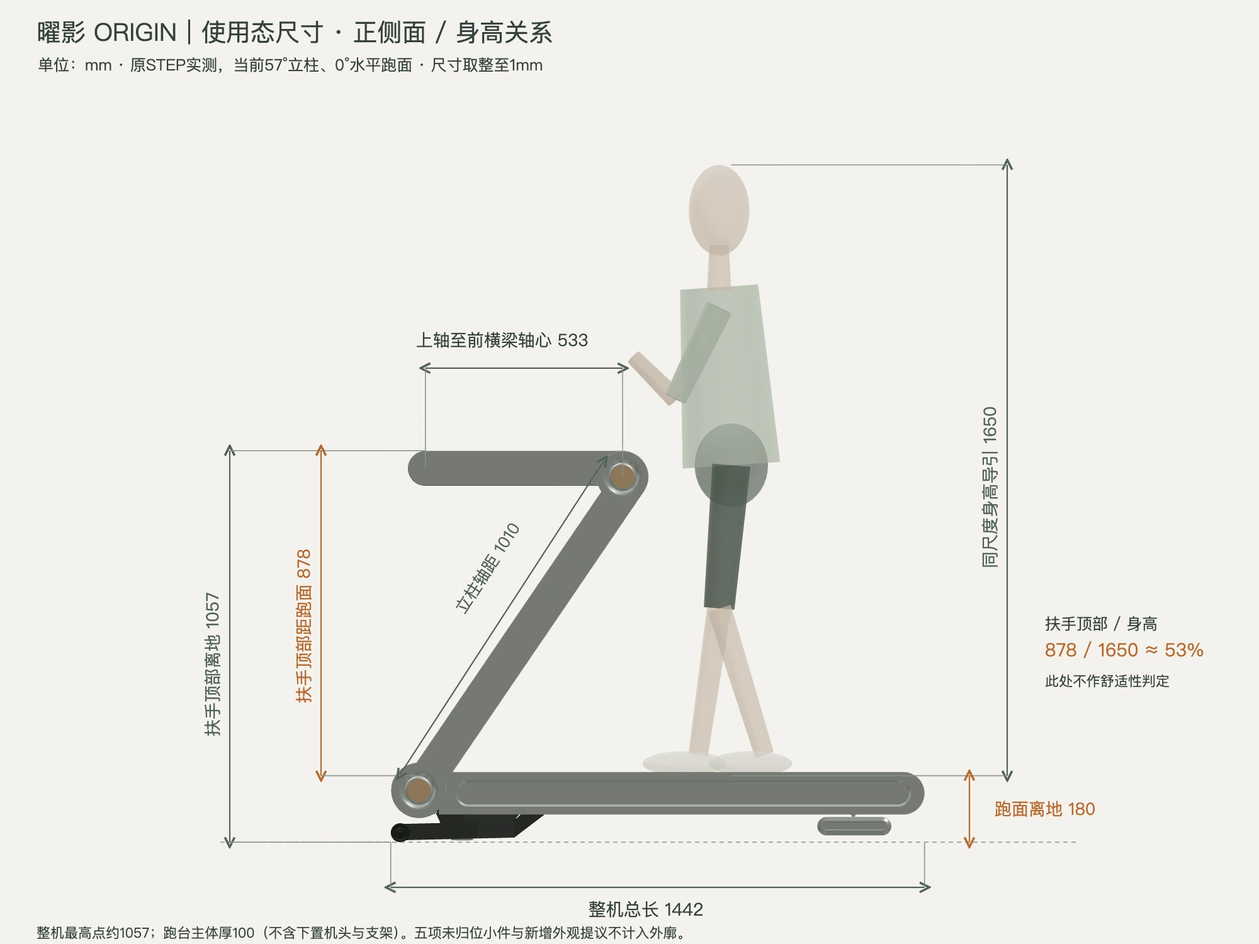
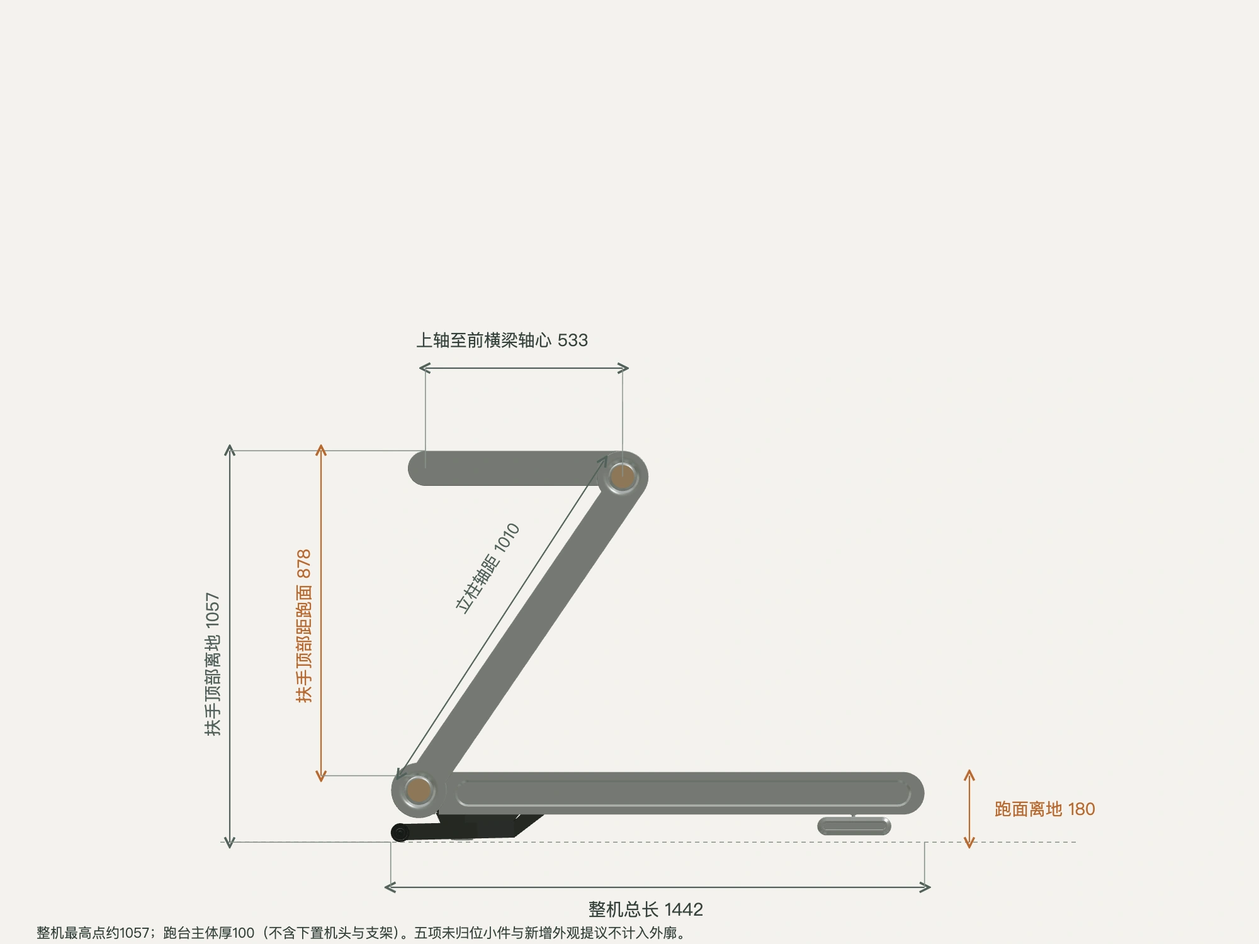
Simplify Origin review copy, remove scale reference and dimension person, expand finishing details

diff --git a/iterations/origin/index.html b/iterations/origin/index.html
@@ -5,7 +5,7 @@
 <header class="masthead"><a class="brand" href="#top">LIJIUJIA <span>立久佳</span></a><span class="edition">DESIGN REVIEW / 2026.11.15</span></header>
 <main id="top"><section class="intro"><div><p class="eyebrow">曜影 / DESIGN REVIEW</p><h1>曜影</h1><p class="lead">整机、使用与收纳姿态、离合片及前方出线。</p></div><div class="review-label"><span class="dot"></span>独立评审稿<span>整机 / 动作 / 选项</span></div></section>
 <div class="review-navigation"><nav class="single-navigation" aria-label="本方案目录"><a href="#whole">整机</a><a href="#incline-15">15°抬升态</a><a href="#motion">模型与动作</a><a href="#finishing">局部与选项</a><a href="#panels">面板提案</a><a href="#origin-indirect-edge-current">侧面光效</a><a href="#incline-15">15°抬升</a><a href="#origin-dimensions-angle-current">尺寸与视角</a></nav><button class="model-launch" id="open-model"><strong>进入曜影3D模型</strong><span>本方案独立模型 →</span></button></div>
-<section id="whole" aria-label="整机与家居效果图"><div class="section-heading"><span class="section-number">01</span><h2>整机形态</h2><p>点开图片，可放大查看</p></div><article class="product" data-product="origin"><section id="origin-indirect-edge-current" style="margin:24px 0;padding:24px;background:#e9e7e1"><h3>侧饰件整圈漫反射 · 后横梁保持银色不发光</h3><p>当前近景以用户指定最正确的R2原图为准，金属、轴心与橙色光晕保持原样。整机仅去掉后横梁多加的灯光：整圈指侧面长饰件的轮廓，不延伸到后横梁。当前为外观稿，未改入STEP。</p><figure style="margin:24px auto;max-width:1120px"><button class="zoom" data-image="https://calfnai.github.io/lijiujia-z7pro-model/iterations/origin-rear-unlit-20261115/whole.webp" data-title="曜影 · 整机 · 侧饰件漫反射，后横梁不发光" aria-label="放大整机 · 侧饰件漫反射，后横梁不发光" style="display:block;width:100%;padding:0;border:0;background:transparent"><img src="https://calfnai.github.io/lijiujia-z7pro-model/iterations/origin-rear-unlit-20261115/whole.webp" alt="曜影 · 整机 · 侧饰件漫反射，后横梁不发光" loading="lazy" width="1448" height="1086" style="width:100%;height:auto;aspect-ratio:auto;object-fit:contain"></button><figcaption>整机 · 侧饰件漫反射，后横梁不发光 · 内置imagegen生成，待评审。</figcaption></figure><figure style="margin:24px auto;max-width:1120px"><button class="zoom" data-image="https://calfnai.github.io/lijiujia-z7pro-model/iterations/origin-indirect-edge-r2-20261115/edge-detail.webp" data-title="曜影 · 近景 · 用户指定R2基准，原图保持" aria-label="放大近景 · 用户指定R2基准，原图保持" style="display:block;width:100%;padding:0;border:0;background:transparent"><img src="https://calfnai.github.io/lijiujia-z7pro-model/iterations/origin-indirect-edge-r2-20261115/edge-detail.webp" alt="曜影 · 近景 · 用户指定R2基准，原图保持" loading="lazy" width="2087" height="754" style="width:100%;height:auto;aspect-ratio:auto;object-fit:contain"></button><figcaption>近景 · 用户指定R2基准，原图保持 · 内置imagegen生成，待评审。</figcaption></figure></section><section id="origin-use-lit-current" style="margin:24px 0;padding:24px;background:#e9e7e1"><h3>曜影 · 侧面发光版使用与身高适配</h3><p>按用户新提供的光影基准重做：银色拉丝与小橙色金属轴心，侧面长胶囊饰件柔和橙光；尾端横梁保持银色、不发光。成人场景比例重新核对；儿童图沿用已验收版本。<a href="https://calfnai.github.io/lijiujia-z7pro-model/iterations/origin-use-lit-r3-20261116/whole-reference.webp" target="_blank" rel="noopener">查看本轮光影基准 ↗</a></p><figure id="origin-adult-scene-r6" style="max-width:1120px;margin:24px auto"><button class="zoom" data-image="https://calfnai.github.io/lijiujia-z7pro-model/iterations/origin-adult-scale-r6-20261116/adult-side.webp" data-title="曜影 · 成人正侧面 · 比例修正版" style="display:block;width:100%;padding:0;border:0;background:transparent"><img src="https://calfnai.github.io/lijiujia-z7pro-model/iterations/origin-adult-scale-r6-20261116/adult-side.webp" alt="曜影成人正侧面场景，165cm外轮廓比例修正版" width="1448" height="1086" style="width:100%;height:auto;object-fit:contain"></button><figcaption>成人正侧面 · 165cm比例修正版，待用户评审。按成图整机长度、脚底与头顶进行近似像素核对；精确尺寸以下方原STEP比例图为准。此处165cm为含鞋与头发的图像外轮廓高度。</figcaption></figure><figure id="origin-adult-scale-current" style="max-width:1300px;margin:24px auto"><button class="zoom" data-image="https://calfnai.github.io/lijiujia-z7pro-model/iterations/origin-adult-scale-r6-20261116/scale-reference.webp" data-title="曜影 · 成人身高比例核对" style="display:block;width:100%;padding:0;border:0;background:transparent"><img src="https://calfnai.github.io/lijiujia-z7pro-model/iterations/origin-adult-scale-r6-20261116/scale-reference.webp" alt="原STEP正侧投影与160、165、180cm同尺度身高参照" width="2000" height="1500" style="width:100%;height:auto;object-fit:contain"></button><figcaption>成人比例核对：原女性场景已撤下；此图为原STEP与165cm示意轮廓的同尺度正侧投影，另列160／180cm标尺。上方正侧场景已完成近似像素比例核对，仍待用户评审。</figcaption></figure><figure style="max-width:1120px;margin:24px auto"><button class="zoom" data-image="https://calfnai.github.io/lijiujia-z7pro-model/iterations/origin-use-lit-r3-20261116/child-use.webp" data-title="曜影 · 120cm身高适配概念 · 侧面发光，尾端不发光" aria-label="放大120cm身高适配概念" style="display:block;width:100%;padding:0;border:0;background:transparent"><img src="https://calfnai.github.io/lijiujia-z7pro-model/iterations/origin-use-lit-r3-20261116/child-use.webp" alt="曜影 · 120cm身高适配概念 · 侧面发光、尾端银色不发光" loading="lazy" width="1448" height="1086" style="width:100%;height:auto;aspect-ratio:auto;object-fit:contain"></button><figcaption>120cm身高适配概念。保留原约48.5°静态适配姿态，横梁顶部距跑面约788mm；儿童使用安全尚未验证。 用户验收通过 · 2026-11-16。</figcaption></figure></section><section id="origin-dimensions-angle-current" style="margin:28px 0;padding:24px;background:#f1efe9"><h3>曜影 · 使用态尺寸与视角对照</h3><p>原STEP当前水平使用态实测，单位mm。跑面离地约180，扶手顶部离地约1057，<strong>扶手顶部距跑面约878</strong>。整机外廓约1442 × 726 × 1057，有效跑面1300 × 435。57°指立柱角度；独立尺寸图用于判断实际高度，原女性效果图比例被否决，已撤下；尺寸图只说明原STEP当前姿态，不证明生成图比例正确。</p><figure style="max-width:1300px;margin:24px auto"><button class="zoom" data-image="https://calfnai.github.io/lijiujia-z7pro-model/iterations/origin-dimensions-angle-20261116/dimensions-side.webp" data-title="曜影 · 正侧面 · 165cm身高导引与主要高度" aria-label="放大正侧面 · 165cm身高导引与主要高度" style="display:block;width:100%;padding:0;border:0;background:transparent"><img src="https://calfnai.github.io/lijiujia-z7pro-model/iterations/origin-dimensions-angle-20261116/dimensions-side.webp" alt="正侧面 · 165cm身高导引与主要高度" loading="lazy" width="2000" height="1500" style="width:100%;height:auto;aspect-ratio:auto;object-fit:contain"></button><figcaption>正侧面 · 165cm身高导引与主要高度。原生几何尺寸标注，非生产放行图。</figcaption></figure><figure style="max-width:1300px;margin:24px auto"><button class="zoom" data-image="https://calfnai.github.io/lijiujia-z7pro-model/iterations/origin-dimensions-angle-20261116/dimensions-plan.webp" data-title="曜影 · 俯视 · 整机、跑面与扶手长宽" aria-label="放大俯视 · 整机、跑面与扶手长宽" style="display:block;width:100%;padding:0;border:0;background:transparent"><img src="https://calfnai.github.io/lijiujia-z7pro-model/iterations/origin-dimensions-angle-20261116/dimensions-plan.webp" alt="俯视 · 整机、跑面与扶手长宽" loading="lazy" width="2000" height="1200" style="width:100%;height:auto;aspect-ratio:auto;object-fit:contain"></button><figcaption>俯视 · 整机、跑面与扶手长宽。原生几何尺寸标注，非生产放行图。</figcaption></figure></section><details id="origin-earlier-visuals" style="margin: 24px 0px; padding: 18px; border: 1px solid rgb(204, 204, 204);"><summary>此前整机与场景图 · 已退出当前外观评审；原STEP与尺寸留作参考</summary><div class="product-heading"><div><span class="eyebrow">02 / ORIGIN</span><h2>曜影<span>新全域STEP基准 · 按8张补图补齐整机姿态</span></h2></div><span class="source-tag">AI外观提案 · STEP结构参考保留</span></div><section id="origin-child-height-check" style="padding:24px;margin:24px 0;border:1px solid #d4d8cc;background:#f0f1e9"><h3>120cm儿童适配核对 · 尚未满足使用态放行条件</h3><p>实测可以调低，不等于儿童用得舒服或用途合规。当前57°姿态：横梁顶部距跑面878mm、圆弧中心830mm；上下轴距1010mm。侧臂中心距680mm、净距640mm，有效跑面1300×435mm。</p><figure><button class="zoom" data-image="https://calfnai.github.io/lijiujia-z7pro-model/iterations/origin-child-fit-20261115/height-check.webp" data-title="曜影120cm尺寸核对 · 未开放儿童运行态" aria-label="放大120cm适配尺寸核对"><img src="https://calfnai.github.io/lijiujia-z7pro-model/iterations/origin-child-fit-20261115/height-check.webp" alt="曜影实际尺寸与1200mm身高尺对比，不代表儿童适用" loading="lazy" width="1800" height="1150"><span class="zoom-icon">↗</span></button></figure><p>中心高度700/740/780mm对应立柱约45.2°/48.5°/52.1°，仅上端两件未检出实体相交；这些是试算目标，未认定为儿童舒适范围。39°旧候选仍有约1288mm³相交。指定握持、全机构、锁止、急停与儿童尺寸适配尚未验证。</p><p>按中国大陆普通家用用途核查：现行GB 17498.1-2008不覆盖儿童专用健身器材；范围排除并非法律一概禁止，但不能以成人设备的标准符合性证明儿童用途。2026版国标于2027-10-01实施。仅凭120cm身高无法确定肘高、握持和舒适可达；年龄与步行/跑步用途尚未明确。因此本轮保留成人基准和九图，不发布儿童运行3D档位。</p></section><section id="origin-native-source-20261115"><p><a href="https://calfnai.github.io/lijiujia-z7pro-model/iterations/origin/model.html?rev=origin-remove-person-20261116" target="_blank" rel="noopener">打开曜影全域版3D：使用、折平、竖放与透明装配 ↗</a></p><div class="gallery"><figure><button class="zoom" data-image="https://calfnai.github.io/lijiujia-z7pro-model/iterations/origin-native-20261115/origin-source-45.webp" data-title="曜影 · 使用态 · 机头侧45°" aria-label="放大：使用态 · 机头侧45°"><img src="https://calfnai.github.io/lijiujia-z7pro-model/iterations/origin-native-20261115/origin-source-45.webp" alt="曜影 · 使用态 · 机头侧45°" loading="lazy" width="1600" height="1200"><span class="zoom-icon">↗</span></button><figcaption><strong>使用态 · 机头侧45°</strong><span>前横梁、下置机头及原轮组保留。</span></figcaption></figure><figure><button class="zoom" data-image="https://calfnai.github.io/lijiujia-z7pro-model/iterations/origin-native-20261115/origin-source-right.webp" data-title="曜影 · 使用态 · 操作台侧45°" aria-label="放大：使用态 · 操作台侧45°"><img src="https://calfnai.github.io/lijiujia-z7pro-model/iterations/origin-native-20261115/origin-source-right.webp" alt="曜影 · 使用态 · 操作台侧45°" loading="lazy" width="1600" height="1200"><span class="zoom-icon">↗</span></button><figcaption><strong>使用态 · 操作台侧45°</strong><span>黑屏、红色按键按原几何分区。</span></figcaption></figure><figure><button class="zoom" data-image="https://calfnai.github.io/lijiujia-z7pro-model/iterations/origin-native-20261115/origin-source-person.webp" data-title="曜影 · 使用态 · 175cm比例人形" aria-label="放大：使用态 · 175cm比例人形"><img src="https://calfnai.github.io/lijiujia-z7pro-model/iterations/origin-native-20261115/origin-source-person.webp" alt="曜影 · 使用态 · 175cm比例人形" loading="lazy" width="1600" height="1200"><span class="zoom-icon">↗</span></button><figcaption><strong>使用态 · 175cm比例人形</strong><span>人物只用于尺度观察。</span></figcaption></figure><figure><button class="zoom" data-image="https://calfnai.github.io/lijiujia-z7pro-model/iterations/origin-native-20261115/origin-source-side.webp" data-title="曜影 · 使用态 · 正侧面" aria-label="放大：使用态 · 正侧面"><img src="https://calfnai.github.io/lijiujia-z7pro-model/iterations/origin-native-20261115/origin-source-side.webp" alt="曜影 · 使用态 · 正侧面" loading="lazy" width="1600" height="1200"><span class="zoom-icon">↗</span></button><figcaption><strong>使用态 · 正侧面</strong><span>立柱约57°、扶手水平，按补图对齐。</span></figcaption></figure><figure><button class="zoom" data-image="https://calfnai.github.io/lijiujia-z7pro-model/iterations/origin-native-20261115/origin-bottom.webp" data-title="曜影 · 原装配 · 机底" aria-label="放大：原装配 · 机底"><img src="https://calfnai.github.io/lijiujia-z7pro-model/iterations/origin-native-20261115/origin-bottom.webp" alt="曜影 · 原装配 · 机底" loading="lazy" width="1600" height="1200"><span class="zoom-icon">↗</span></button><figcaption><strong>原装配 · 机底</strong><span>保留原支架、驱动与下置机头，未用旧低罩替换源件。</span></figcaption></figure><figure><button class="zoom" data-image="https://calfnai.github.io/lijiujia-z7pro-model/iterations/origin-native-20261115/origin-fold.webp" data-title="曜影 · 折平 · 斜上方" aria-label="放大：折平 · 斜上方"><img src="https://calfnai.github.io/lijiujia-z7pro-model/iterations/origin-native-20261115/origin-fold.webp" alt="曜影 · 折平 · 斜上方" loading="lazy" width="1600" height="1200"><span class="zoom-icon">↗</span></button><figcaption><strong>折平 · 斜上方</strong><span>按补图对齐终态；全程扫掠与锁止仍待核对。</span></figcaption></figure><figure><button class="zoom" data-image="https://calfnai.github.io/lijiujia-z7pro-model/iterations/origin-native-20261115/origin-fold-side.webp" data-title="曜影 · 折平 · 正侧面" aria-label="放大：折平 · 正侧面"><img src="https://calfnai.github.io/lijiujia-z7pro-model/iterations/origin-native-20261115/origin-fold-side.webp" alt="曜影 · 折平 · 正侧面" loading="lazy" width="1600" height="1200"><span class="zoom-icon">↗</span></button><figcaption><strong>折平 · 正侧面</strong><span>原上端与下端几何保留，未压扁或缩小扶手。</span></figcaption></figure><figure><button class="zoom" data-image="https://calfnai.github.io/lijiujia-z7pro-model/iterations/origin-native-20261115/origin-stand.webp?rev=upright-90-20261115" data-title="曜影 · 竖放 · 机底" aria-label="放大：竖放 · 机底"><img src="https://calfnai.github.io/lijiujia-z7pro-model/iterations/origin-native-20261115/origin-stand.webp?rev=upright-90-20261115" alt="曜影 · 竖放 · 机底" loading="lazy" width="1600" height="1200"><span class="zoom-icon">↗</span></button><figcaption><strong>竖放 · 机底</strong><span>机头向下、机底朝外，按用户补图方向摆放。</span></figcaption></figure><figure><button class="zoom" data-image="https://calfnai.github.io/lijiujia-z7pro-model/iterations/origin-native-20261115/origin-stand-side.webp?rev=upright-90-20261115" data-title="曜影 · 竖放 · 正侧面" aria-label="放大：竖放 · 正侧面"><img src="https://calfnai.github.io/lijiujia-z7pro-model/iterations/origin-native-20261115/origin-stand-side.webp?rev=upright-90-20261115" alt="曜影 · 竖放 · 正侧面" loading="lazy" width="1600" height="1200"><span class="zoom-icon">↗</span></button><figcaption><strong>竖放 · 正侧面</strong><span>原轮组、机头与脚垫保留；最终支撑与稳定性未验证。</span></figcaption></figure></div><p>105项按姿态展示，5项未归位小件仍保留在“源保存态”。立柱使用/折平姿态按补图估读。已开放0–15°跑台倾角和现有双轴折叠过程预览；未验证左右解锁、锁止、线束与连续扫掠。15°抬升时下半部总成共同展开、轮组接地；驱动连接与竖放稳定性仍待核对。</p><p>既有120°开口的单轴出线、机底外观及离合片入口保留在下方；本次新装配尚未完整合入这些提议。</p></section><section id="lifestyle-scene-origin"><h3>旧未发光适配图已退出当前展示</h3><p>原文件保留历史，现采用用户指定光影基准重做的两张图。<a href="#origin-use-lit-current">查看当前成人与120cm适配图 ↑</a></p></section></details></article></section>
+<section id="whole" aria-label="整机与家居效果图"><div class="section-heading"><span class="section-number">01</span><h2>整机形态</h2><p>点开图片，可放大查看</p></div><article class="product" data-product="origin"><section id="origin-indirect-edge-current" style="margin:24px 0;padding:24px;background:#e9e7e1"><h3>侧饰件整圈漫反射 · 后横梁保持银色不发光</h3><p>当前近景以用户指定最正确的R2原图为准，金属、轴心与橙色光晕保持原样。整机仅去掉后横梁多加的灯光：整圈指侧面长饰件的轮廓，不延伸到后横梁。当前为外观稿，未改入STEP。</p><figure style="margin:24px auto;max-width:1120px"><button class="zoom" data-image="https://calfnai.github.io/lijiujia-z7pro-model/iterations/origin-rear-unlit-20261115/whole.webp" data-title="曜影 · 整机 · 侧饰件漫反射，后横梁不发光" aria-label="放大整机 · 侧饰件漫反射，后横梁不发光" style="display:block;width:100%;padding:0;border:0;background:transparent"><img src="https://calfnai.github.io/lijiujia-z7pro-model/iterations/origin-rear-unlit-20261115/whole.webp" alt="曜影 · 整机 · 侧饰件漫反射，后横梁不发光" loading="lazy" width="1448" height="1086" style="width:100%;height:auto;aspect-ratio:auto;object-fit:contain"></button><figcaption>整机 · 侧饰件漫反射，后横梁不发光 · 内置imagegen生成，待评审。</figcaption></figure><figure style="margin:24px auto;max-width:1120px"><button class="zoom" data-image="https://calfnai.github.io/lijiujia-z7pro-model/iterations/origin-indirect-edge-r2-20261115/edge-detail.webp" data-title="曜影 · 近景 · 用户指定R2基准，原图保持" aria-label="放大近景 · 用户指定R2基准，原图保持" style="display:block;width:100%;padding:0;border:0;background:transparent"><img src="https://calfnai.github.io/lijiujia-z7pro-model/iterations/origin-indirect-edge-r2-20261115/edge-detail.webp" alt="曜影 · 近景 · 用户指定R2基准，原图保持" loading="lazy" width="2087" height="754" style="width:100%;height:auto;aspect-ratio:auto;object-fit:contain"></button><figcaption>近景 · 用户指定R2基准，原图保持 · 内置imagegen生成，待评审。</figcaption></figure></section><section id="origin-use-lit-current" style="margin:24px 0;padding:24px;background:#e9e7e1"><h3>曜影 · 侧面发光版使用与身高适配</h3><figure id="origin-adult-scene-r6" style="max-width:1120px;margin:24px auto"><button class="zoom" data-image="https://calfnai.github.io/lijiujia-z7pro-model/iterations/origin-adult-scale-r6-20261116/adult-side.webp" data-title="曜影 · 成人正侧面 · 比例修正版" style="display:block;width:100%;padding:0;border:0;background:transparent"><img src="https://calfnai.github.io/lijiujia-z7pro-model/iterations/origin-adult-scale-r6-20261116/adult-side.webp" alt="曜影成人正侧面场景，165cm外轮廓比例修正版" width="1448" height="1086" style="width:100%;height:auto;object-fit:contain"></button></figure><figure style="max-width:1120px;margin:24px auto"><button class="zoom" data-image="https://calfnai.github.io/lijiujia-z7pro-model/iterations/origin-page-edit-20261116/child-use.webp" data-title="曜影 · 120cm身高适配概念 · 侧面发光，尾端不发光" aria-label="放大120cm身高适配概念" style="display:block;width:100%;padding:0;border:0;background:transparent"><img src="https://calfnai.github.io/lijiujia-z7pro-model/iterations/origin-page-edit-20261116/child-use.webp" alt="曜影 · 120cm身高适配概念 · 侧面发光、尾端银色不发光" loading="lazy" width="1448" height="1086" style="width:100%;height:auto;aspect-ratio:auto;object-fit:contain"></button><figcaption>120cm身高适配概念。保留原约48.5°静态适配姿态，横梁顶部距跑面约788mm；儿童使用安全尚未验证。 用户验收通过 · 2026-11-16。</figcaption></figure></section><section id="origin-dimensions-angle-current" style="margin:28px 0;padding:24px;background:#f1efe9"><h3>曜影 · 使用态尺寸与视角对照</h3><figure style="max-width:1300px;margin:24px auto"><button class="zoom" data-image="https://calfnai.github.io/lijiujia-z7pro-model/iterations/origin-dimensions-angle-20261116/dimensions-side.webp?rev=origin-page-edit-20261116" data-title="曜影 · 正侧面 · 原生几何尺寸标注" aria-label="放大正侧面 · 原生几何尺寸标注" style="display:block;width:100%;padding:0;border:0;background:transparent"><img src="https://calfnai.github.io/lijiujia-z7pro-model/iterations/origin-dimensions-angle-20261116/dimensions-side.webp?rev=origin-page-edit-20261116" alt="正侧面 · 原生几何尺寸标注" loading="lazy" width="2000" height="1500" style="width:100%;height:auto;aspect-ratio:auto;object-fit:contain"></button><figcaption>正侧面 ·原生几何尺寸标注，非生产放行图。</figcaption></figure><figure style="max-width:1300px;margin:24px auto"><button class="zoom" data-image="https://calfnai.github.io/lijiujia-z7pro-model/iterations/origin-dimensions-angle-20261116/dimensions-plan.webp" data-title="曜影 · 俯视 · 整机、跑面与扶手长宽" aria-label="放大俯视 · 整机、跑面与扶手长宽" style="display:block;width:100%;padding:0;border:0;background:transparent"><img src="https://calfnai.github.io/lijiujia-z7pro-model/iterations/origin-dimensions-angle-20261116/dimensions-plan.webp" alt="俯视 · 整机、跑面与扶手长宽" loading="lazy" width="2000" height="1200" style="width:100%;height:auto;aspect-ratio:auto;object-fit:contain"></button><figcaption>俯视 · 整机、跑面与扶手长宽。原生几何尺寸标注，非生产放行图。</figcaption></figure></section><details id="origin-earlier-visuals" style="margin: 24px 0px; padding: 18px; border: 1px solid rgb(204, 204, 204);"><summary>此前整机与场景图 · 已退出当前外观评审；原STEP与尺寸留作参考</summary><div class="product-heading"><div><span class="eyebrow">02 / ORIGIN</span><h2>曜影<span>新全域STEP基准 · 按8张补图补齐整机姿态</span></h2></div><span class="source-tag">AI外观提案 · STEP结构参考保留</span></div><section id="origin-child-height-check" style="padding:24px;margin:24px 0;border:1px solid #d4d8cc;background:#f0f1e9"><h3>120cm儿童适配核对 · 尚未满足使用态放行条件</h3><p>实测可以调低，不等于儿童用得舒服或用途合规。当前57°姿态：横梁顶部距跑面878mm、圆弧中心830mm；上下轴距1010mm。侧臂中心距680mm、净距640mm，有效跑面1300×435mm。</p><figure><button class="zoom" data-image="https://calfnai.github.io/lijiujia-z7pro-model/iterations/origin-child-fit-20261115/height-check.webp" data-title="曜影120cm尺寸核对 · 未开放儿童运行态" aria-label="放大120cm适配尺寸核对"><img src="https://calfnai.github.io/lijiujia-z7pro-model/iterations/origin-child-fit-20261115/height-check.webp" alt="曜影实际尺寸与1200mm身高尺对比，不代表儿童适用" loading="lazy" width="1800" height="1150"><span class="zoom-icon">↗</span></button></figure><p>中心高度700/740/780mm对应立柱约45.2°/48.5°/52.1°，仅上端两件未检出实体相交；这些是试算目标，未认定为儿童舒适范围。39°旧候选仍有约1288mm³相交。指定握持、全机构、锁止、急停与儿童尺寸适配尚未验证。</p><p>按中国大陆普通家用用途核查：现行GB 17498.1-2008不覆盖儿童专用健身器材；范围排除并非法律一概禁止，但不能以成人设备的标准符合性证明儿童用途。2026版国标于2027-10-01实施。仅凭120cm身高无法确定肘高、握持和舒适可达；年龄与步行/跑步用途尚未明确。因此本轮保留成人基准和九图，不发布儿童运行3D档位。</p></section><section id="origin-native-source-20261115"><p><a href="https://calfnai.github.io/lijiujia-z7pro-model/iterations/origin/model.html?rev=origin-remove-person-20261116" target="_blank" rel="noopener">打开曜影全域版3D：使用、折平、竖放与透明装配 ↗</a></p><div class="gallery"><figure><button class="zoom" data-image="https://calfnai.github.io/lijiujia-z7pro-model/iterations/origin-native-20261115/origin-source-45.webp" data-title="曜影 · 使用态 · 机头侧45°" aria-label="放大：使用态 · 机头侧45°"><img src="https://calfnai.github.io/lijiujia-z7pro-model/iterations/origin-native-20261115/origin-source-45.webp" alt="曜影 · 使用态 · 机头侧45°" loading="lazy" width="1600" height="1200"><span class="zoom-icon">↗</span></button><figcaption><strong>使用态 · 机头侧45°</strong><span>前横梁、下置机头及原轮组保留。</span></figcaption></figure><figure><button class="zoom" data-image="https://calfnai.github.io/lijiujia-z7pro-model/iterations/origin-native-20261115/origin-source-right.webp" data-title="曜影 · 使用态 · 操作台侧45°" aria-label="放大：使用态 · 操作台侧45°"><img src="https://calfnai.github.io/lijiujia-z7pro-model/iterations/origin-native-20261115/origin-source-right.webp" alt="曜影 · 使用态 · 操作台侧45°" loading="lazy" width="1600" height="1200"><span class="zoom-icon">↗</span></button><figcaption><strong>使用态 · 操作台侧45°</strong><span>黑屏、红色按键按原几何分区。</span></figcaption></figure><figure><button class="zoom" data-image="https://calfnai.github.io/lijiujia-z7pro-model/iterations/origin-native-20261115/origin-source-person.webp" data-title="曜影 · 使用态 · 175cm比例人形" aria-label="放大：使用态 · 175cm比例人形"><img src="https://calfnai.github.io/lijiujia-z7pro-model/iterations/origin-native-20261115/origin-source-person.webp" alt="曜影 · 使用态 · 175cm比例人形" loading="lazy" width="1600" height="1200"><span class="zoom-icon">↗</span></button><figcaption><strong>使用态 · 175cm比例人形</strong><span>人物只用于尺度观察。</span></figcaption></figure><figure><button class="zoom" data-image="https://calfnai.github.io/lijiujia-z7pro-model/iterations/origin-native-20261115/origin-source-side.webp" data-title="曜影 · 使用态 · 正侧面" aria-label="放大：使用态 · 正侧面"><img src="https://calfnai.github.io/lijiujia-z7pro-model/iterations/origin-native-20261115/origin-source-side.webp" alt="曜影 · 使用态 · 正侧面" loading="lazy" width="1600" height="1200"><span class="zoom-icon">↗</span></button><figcaption><strong>使用态 · 正侧面</strong><span>立柱约57°、扶手水平，按补图对齐。</span></figcaption></figure><figure><button class="zoom" data-image="https://calfnai.github.io/lijiujia-z7pro-model/iterations/origin-native-20261115/origin-bottom.webp" data-title="曜影 · 原装配 · 机底" aria-label="放大：原装配 · 机底"><img src="https://calfnai.github.io/lijiujia-z7pro-model/iterations/origin-native-20261115/origin-bottom.webp" alt="曜影 · 原装配 · 机底" loading="lazy" width="1600" height="1200"><span class="zoom-icon">↗</span></button><figcaption><strong>原装配 · 机底</strong><span>保留原支架、驱动与下置机头，未用旧低罩替换源件。</span></figcaption></figure><figure><button class="zoom" data-image="https://calfnai.github.io/lijiujia-z7pro-model/iterations/origin-native-20261115/origin-fold.webp" data-title="曜影 · 折平 · 斜上方" aria-label="放大：折平 · 斜上方"><img src="https://calfnai.github.io/lijiujia-z7pro-model/iterations/origin-native-20261115/origin-fold.webp" alt="曜影 · 折平 · 斜上方" loading="lazy" width="1600" height="1200"><span class="zoom-icon">↗</span></button><figcaption><strong>折平 · 斜上方</strong><span>按补图对齐终态；全程扫掠与锁止仍待核对。</span></figcaption></figure><figure><button class="zoom" data-image="https://calfnai.github.io/lijiujia-z7pro-model/iterations/origin-native-20261115/origin-fold-side.webp" data-title="曜影 · 折平 · 正侧面" aria-label="放大：折平 · 正侧面"><img src="https://calfnai.github.io/lijiujia-z7pro-model/iterations/origin-native-20261115/origin-fold-side.webp" alt="曜影 · 折平 · 正侧面" loading="lazy" width="1600" height="1200"><span class="zoom-icon">↗</span></button><figcaption><strong>折平 · 正侧面</strong><span>原上端与下端几何保留，未压扁或缩小扶手。</span></figcaption></figure><figure><button class="zoom" data-image="https://calfnai.github.io/lijiujia-z7pro-model/iterations/origin-native-20261115/origin-stand.webp?rev=upright-90-20261115" data-title="曜影 · 竖放 · 机底" aria-label="放大：竖放 · 机底"><img src="https://calfnai.github.io/lijiujia-z7pro-model/iterations/origin-native-20261115/origin-stand.webp?rev=upright-90-20261115" alt="曜影 · 竖放 · 机底" loading="lazy" width="1600" height="1200"><span class="zoom-icon">↗</span></button><figcaption><strong>竖放 · 机底</strong><span>机头向下、机底朝外，按用户补图方向摆放。</span></figcaption></figure><figure><button class="zoom" data-image="https://calfnai.github.io/lijiujia-z7pro-model/iterations/origin-native-20261115/origin-stand-side.webp?rev=upright-90-20261115" data-title="曜影 · 竖放 · 正侧面" aria-label="放大：竖放 · 正侧面"><img src="https://calfnai.github.io/lijiujia-z7pro-model/iterations/origin-native-20261115/origin-stand-side.webp?rev=upright-90-20261115" alt="曜影 · 竖放 · 正侧面" loading="lazy" width="1600" height="1200"><span class="zoom-icon">↗</span></button><figcaption><strong>竖放 · 正侧面</strong><span>原轮组、机头与脚垫保留；最终支撑与稳定性未验证。</span></figcaption></figure></div><p>105项按姿态展示，5项未归位小件仍保留在“源保存态”。立柱使用/折平姿态按补图估读。已开放0–15°跑台倾角和现有双轴折叠过程预览；未验证左右解锁、锁止、线束与连续扫掠。15°抬升时下半部总成共同展开、轮组接地；驱动连接与竖放稳定性仍待核对。</p><p>既有120°开口的单轴出线、机底外观及离合片入口保留在下方；本次新装配尚未完整合入这些提议。</p></section><section id="lifestyle-scene-origin"><h3>旧未发光适配图已退出当前展示</h3><p>原文件保留历史，现采用用户指定光影基准重做的两张图。<a href="#origin-use-lit-current">查看当前成人与120cm适配图 ↑</a></p></section></details></article></section>
 <section id="incline-15"><div class="section-heading"><span class="section-number">15°</span><h2>工作面对地15.0° · 下半部总成整体展开</h2><p>正侧投影核对实际夹角，原下壳与轮架共同运动</p></div><p>工作面长1300mm，对应高差336.5mm、水平投影1255.7mm。四只轮子与后支撑接地；下框架、横向底壳和包覆件共同展开。本组为结构姿态评审，未完成连续扫掠、推杆限位及承载验证。</p><div class="gallery"><figure><button class="zoom" data-image="https://calfnai.github.io/lijiujia-z7pro-model/iterations/origin/incline-15-side.webp?rev=origin-lift-total-20261115" data-title="曜影 · 正侧面 · 工作面与水平地面15.0°" aria-label="放大正侧面 · 工作面与水平地面15.0°"><img src="https://calfnai.github.io/lijiujia-z7pro-model/iterations/origin/incline-15-side.webp?rev=origin-lift-total-20261115" alt="曜影 · 正侧面 · 工作面与水平地面15.0°" loading="lazy" width="1800" height="1200" style="aspect-ratio:auto"><span class="zoom-icon">↗</span></button><figcaption>正侧面 · 工作面与水平地面15.0° · 原STEP网格姿态，待评审。</figcaption></figure><figure><button class="zoom" data-image="https://calfnai.github.io/lijiujia-z7pro-model/iterations/origin/incline-15-left.webp?rev=origin-lift-total-20261115" data-title="曜影 · 前下方 · 完整下部总成共同展开" aria-label="放大前下方 · 完整下部总成共同展开"><img src="https://calfnai.github.io/lijiujia-z7pro-model/iterations/origin/incline-15-left.webp?rev=origin-lift-total-20261115" alt="曜影 · 前下方 · 完整下部总成共同展开" loading="lazy" width="1800" height="1200" style="aspect-ratio:auto"><span class="zoom-icon">↗</span></button><figcaption>前下方 · 完整下部总成共同展开 · 原STEP网格姿态，待评审。</figcaption></figure></div></section><section id="motion"><div class="section-heading"><span class="section-number">02</span><h2>模型与动作</h2><p>曜影</p></div><div class="motion-shell"><div class="motion-poster" id="motion-poster"><img id="motion-cover" src="https://calfnai.github.io/lijiujia-z7pro-model/iterations/origin-rear-unlit-20261115/whole.webp" alt="凌序模型演示预览" width="1600" height="1200" loading="lazy"><div><p>从静态，进入动作。</p><button id="start-model">启动模型演示 <span>↗</span></button><small>本轮外观提案作封面；进入后为原STEP结构参考，藏光尚未合入三维。</small></div></div><iframe id="model-frame" title="曜影独立模型" hidden=""></iframe><p id="model-error" hidden="" role="alert">模型暂未载入。<button id="retry-model">重试</button></p></div><p class="caption-note">模型用于外观与动作评审；工程核验状态以模型内说明为准。</p></section>
 <!-- FOLD-ACCESS-START --><!-- FOLD-ACCESS-END --><section id="finishing"><div class="section-heading"><span class="section-number">03</span><h2>点睛之笔</h2><p>整机与动作之后，再看细节</p></div><div class="finishing-content"><p class="caption-note">此前机构与外观图 · 仅作参考，未统一为本轮外观</p><div data-detail="origin"><div class="detail-heading"><h3>曜影 · 机构与包覆</h3><p>离合片、机底、原抬升架与前方摆动出线，延续同一整机方案。</p></div><a class="origin-clutch-entry" id="origin-clutch-3d" href="https://calfnai.github.io/lijiujia-z7pro-model/iterations/source-detail-20261112/origin-detail.html?rev=origin-easycord-scene-r2-20261115#joint" target="_blank" rel="noopener"><img src="https://calfnai.github.io/lijiujia-z7pro-model/iterations/source-detail-20261112/origin-r3-coupled.webp?rev=origin-cord-bottom-20261114" alt="曜影离合片3D操作预览" width="1480" height="980" loading="lazy"><span><strong>进入曜影离合片 3D · 按钮耦合／解耦 ↗</strong><span>旋转查看结构，按下按钮退开齿盘，拖动扶手角度，再松开查看接合；支持剖视与零件展开。</span><small>沿用既有 R3 模型 · 30齿／12°档距 · 演示行程与承载仍待工程核验</small></span></a><div id="origin-cord-bottom-current" class="details-grid"><figure class="detail-card"><button class="zoom" data-image="https://calfnai.github.io/lijiujia-z7pro-model/iterations/origin-cord-bottom-20261114/stand.webp?rev=origin-cord-bottom-20261114-cbc67bc7" data-title="竖放也值得看 · 连续机底曲面" aria-label="放大：竖放也值得看 · 连续机底曲面"><img src="https://calfnai.github.io/lijiujia-z7pro-model/iterations/origin-cord-bottom-20261114/stand.webp?rev=origin-cord-bottom-20261114-cbc67bc7" alt="竖放也值得看 · 连续机底曲面" width="1600" height="1200" loading="lazy"><span class="zoom-icon">↗</span></button><figcaption><strong>竖放也值得看 · 连续机底曲面</strong><span>银框内收、微拱主壳与圆润电机舱；待评审</span></figcaption></figure><figure class="detail-card"><button class="zoom" data-image="https://calfnai.github.io/lijiujia-z7pro-model/iterations/origin-cord-bottom-20261114/bottom.webp?rev=origin-cord-bottom-20261114-cbc67bc7" data-title="机底整体 · 曲面与一笔橙线" aria-label="放大：机底整体 · 曲面与一笔橙线"><img src="https://calfnai.github.io/lijiujia-z7pro-model/iterations/origin-cord-bottom-20261114/bottom.webp?rev=origin-cord-bottom-20261114-cbc67bc7" alt="机底整体 · 曲面与一笔橙线" width="1600" height="1200" loading="lazy"><span class="zoom-icon">↗</span></button><figcaption><strong>机底整体 · 曲面与一笔橙线</strong><span>保留原零件，以真实壳面包覆；不是替换原机构</span></figcaption></figure><figure class="detail-card"><button class="zoom" data-image="https://calfnai.github.io/lijiujia-z7pro-model/iterations/origin-cord-bottom-20261114/lift-bottom.webp?rev=origin-cord-bottom-20261114-cbc67bc7" data-title="抬升时 · 原架体与横桥展开" aria-label="放大：抬升时 · 原架体与横桥展开"><img src="https://calfnai.github.io/lijiujia-z7pro-model/iterations/origin-cord-bottom-20261114/lift-bottom.webp?rev=origin-cord-bottom-20261114-cbc67bc7" alt="抬升时 · 原架体与横桥展开" width="1600" height="1200" loading="lazy"><span class="zoom-icon">↗</span></button><figcaption>原抬升架结构参考 · 保留原部件，当前抬升目标角度统一为15°</figcaption></figure><figure class="detail-card"><button class="zoom" data-image="https://calfnai.github.io/lijiujia-z7pro-model/iterations/origin-cord-bottom-20261114/cord-up.webp?rev=origin-easycord-scene-r2-20261115" data-title="T-fal式出线 · 最高朝天" aria-label="放大：T-fal式出线 · 最高朝天"><img src="https://calfnai.github.io/lijiujia-z7pro-model/iterations/origin-cord-bottom-20261114/cord-up.webp?rev=origin-easycord-scene-r2-20261115" alt="T-fal式出线 · 最高朝天" width="1600" height="1200" loading="lazy"><span class="zoom-icon">↗</span></button><figcaption><strong>T-fal式出线 · 最高朝天</strong><span>按T-fal实物重做：一体短槽护套与连续连接筋；开口纵向120°</span></figcaption></figure><figure class="detail-card"><button class="zoom" data-image="https://calfnai.github.io/lijiujia-z7pro-model/iterations/origin-cord-bottom-20261114/cord-down.webp?rev=origin-easycord-scene-r2-20261115" data-title="T-fal式出线 · 最低向前斜下30°" aria-label="放大：T-fal式出线 · 最低向前斜下30°"><img src="https://calfnai.github.io/lijiujia-z7pro-model/iterations/origin-cord-bottom-20261114/cord-down.webp?rev=origin-easycord-scene-r2-20261115" alt="T-fal式出线 · 最低向前斜下30°" width="1600" height="1200" loading="lazy"><span class="zoom-icon">↗</span></button><figcaption><strong>T-fal式出线 · 最低向前斜下30°</strong><span>同一Z轴、同一平面；护套取消独立圆环，保持连续实体</span></figcaption></figure><figure class="detail-card"><button class="zoom" data-image="https://calfnai.github.io/lijiujia-z7pro-model/iterations/origin-cord-bottom-20261114/fold-side.webp?rev=origin-cord-bottom-20261114-cbc67bc7" data-title="折平侧面核对" aria-label="放大：折平侧面核对"><img src="https://calfnai.github.io/lijiujia-z7pro-model/iterations/origin-cord-bottom-20261114/fold-side.webp?rev=origin-cord-bottom-20261114-cbc67bc7" alt="折平侧面核对" width="1600" height="1200" loading="lazy"><span class="zoom-icon" aria-hidden="true">↗</span></button><figcaption><strong>折平侧面核对</strong><span>同一个模型 · 原123°端点仍待接合</span></figcaption></figure><figure class="detail-card"><button class="zoom" data-image="https://calfnai.github.io/lijiujia-z7pro-model/iterations/source-detail-20261112/origin-r3-coupled.webp?rev=origin-cord-bottom-20261114" data-title="① 松手复位 · 齿面接合" aria-label="放大：① 松手复位 · 齿面接合"><img src="https://calfnai.github.io/lijiujia-z7pro-model/iterations/source-detail-20261112/origin-r3-coupled.webp?rev=origin-cord-bottom-20261114" alt="① 松手复位 · 齿面接合" width="1600" height="1200" loading="lazy"><span class="zoom-icon" aria-hidden="true">↗</span></button><figcaption><strong>① 松手复位 · 齿面接合</strong><span>齿峰进入齿谷 · 可切换3D近看与展开剖面</span></figcaption></figure><figure class="detail-card"><button class="zoom" data-image="https://calfnai.github.io/lijiujia-z7pro-model/iterations/source-detail-20261112/origin-r3-decoupled.webp?rev=origin-cord-bottom-20261114" data-title="② 按下按钮 · 齿盘退开" aria-label="放大：② 按下按钮 · 齿盘退开"><img src="https://calfnai.github.io/lijiujia-z7pro-model/iterations/source-detail-20261112/origin-r3-decoupled.webp?rev=origin-cord-bottom-20261114" alt="② 按下按钮 · 齿盘退开" width="1600" height="1200" loading="lazy"><span class="zoom-icon" aria-hidden="true">↗</span></button><figcaption><strong>② 按下按钮 · 齿盘退开</strong><span>退开10 mm · 弹簧压缩，齿面分离；演示参数待核验</span></figcaption></figure><figure class="detail-card"><button class="zoom" data-image="https://calfnai.github.io/lijiujia-z7pro-model/iterations/source-detail-20261112/origin-r3-pending.webp" data-title="③ 未对齿 · 尚未接合" aria-label="放大：③ 未对齿 · 尚未接合"><img src="https://calfnai.github.io/lijiujia-z7pro-model/iterations/source-detail-20261112/origin-r3-pending.webp" alt="③ 未对齿 · 尚未接合" width="1600" height="1200" loading="lazy"><span class="zoom-icon" aria-hidden="true">↗</span></button><figcaption><strong>③ 未对齿 · 尚未接合</strong><span>松手后齿顶相抵 · 微调对齿后才接合</span></figcaption></figure></div><p class="small">2026.11.14 · 出线与机底已改入网页同一模型；下载STEP仍为删旧扳机的源装配。参考 T-fal Easycord实物。<br><a href="https://calfnai.github.io/lijiujia-z7pro-model/iterations/source-detail-20261112/origin-detail.html?rev=origin-easycord-scene-r2-20261115" target="_blank" rel="noopener">进入曜影既有R3细节操作 ↗</a> · <a href="https://calfnai.github.io/lijiujia-z7pro-model/iterations/source-detail-20261112/origin-without-legacy-trigger.step.zip" target="_blank" rel="noopener">下载删旧扳机后的STEP</a></p></div></div></section><section id="panels"><div class="section-heading"><span class="section-number">04</span><h2>面板提案</h2><p>既有三款候选 · 待评审</p></div><details><summary>此前面板候选 · 仅作参考，未统一为本轮外观</summary><div class="details-grid"><figure><button class="zoom" data-image="https://calfnai.github.io/lijiujia-z7pro-model/iterations/panel-redesign-v03-20261115/B1.png" data-title="曜影面板 B1" aria-label="放大面板 B1"><img src="https://calfnai.github.io/lijiujia-z7pro-model/iterations/panel-redesign-v03-20261115/B1.png" alt="曜影面板 B1" loading="lazy"><span class="zoom-icon">↗</span></button><figcaption>曜影 · B1（候选）</figcaption></figure><figure><button class="zoom" data-image="https://calfnai.github.io/lijiujia-z7pro-model/iterations/panel-redesign-v03-20261115/B2.png" data-title="曜影面板 B2" aria-label="放大面板 B2"><img src="https://calfnai.github.io/lijiujia-z7pro-model/iterations/panel-redesign-v03-20261115/B2.png" alt="曜影面板 B2" loading="lazy"><span class="zoom-icon">↗</span></button><figcaption>曜影 · B2（候选）</figcaption></figure><figure><button class="zoom" data-image="https://calfnai.github.io/lijiujia-z7pro-model/iterations/panel-redesign-v03-20261115/B3.png" data-title="曜影面板 B3" aria-label="放大面板 B3"><img src="https://calfnai.github.io/lijiujia-z7pro-model/iterations/panel-redesign-v03-20261115/B3.png" alt="曜影面板 B3" loading="lazy"><span class="zoom-icon">↗</span></button><figcaption>曜影 · B3（候选）</figcaption></figure></div><p class="caption-note">沿用已生成的固定面板候选图，尚未映射至本款三维模型；不代表定稿。</p></details></section><section id="selected-scope"><div class="section-heading"><span class="section-number">05</span><h2>厂商选用项</h2></div><p>镜面底面与额外增稳机构为本方案的厂商可选项，具体采用范围待深化评估。</p></section>
 
